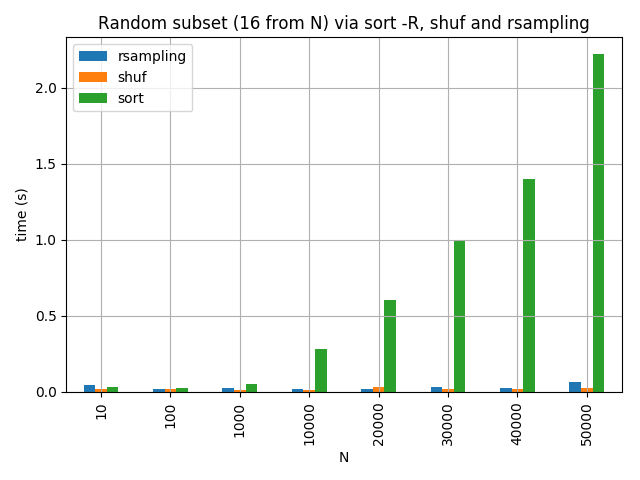
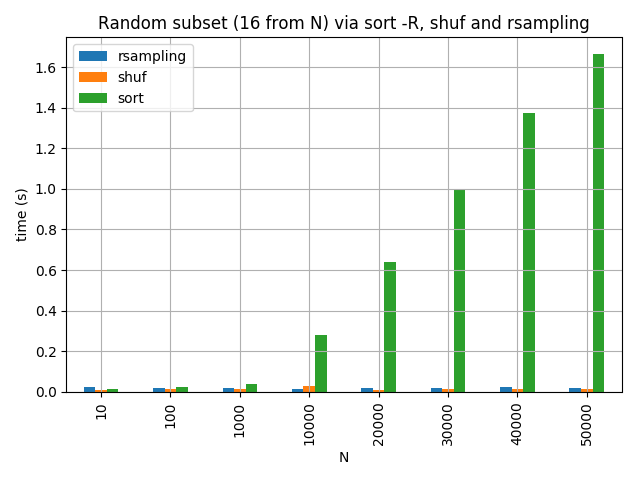
update benchmark

diff --git a/chart.py b/chart.py
@@ -122,7 +122,7 @@ if __name__ == '__main__':
         bm['sort'].append(t.elapsed)
 
         with Timer() as t:
-            shellout("seq {n} | shuf | head -16", n=n, pipefail=False)
+            shellout("seq {n} | shuf -n 16", n=n, pipefail=False)
         bm['shuf'].append(t.elapsed)
     
     df = pd.DataFrame(bm, index=sizes)
@@ -139,7 +139,7 @@ if __name__ == '__main__':
         bm['rsampling'].append(t.elapsed)
 
         with Timer() as t:
-            shellout("seq {n} | shuf | head -16", n=n, pipefail=False)
+            shellout("seq {n} | shuf -n 16", n=n, pipefail=False)
         bm['shuf'].append(t.elapsed)
     
     df = pd.DataFrame(bm, index=sizes)
@@ -156,7 +156,7 @@ if __name__ == '__main__':
         bm['rsampling'].append(t.elapsed)
 
         with Timer() as t:
-            shellout("seq {n} | shuf | head -100000 > /dev/null", n=n, pipefail=False)
+            shellout("seq {n} | shuf -n 100000 > /dev/null", n=n, pipefail=False)
         bm['shuf'].append(t.elapsed)
     
     df = pd.DataFrame(bm, index=sizes)
